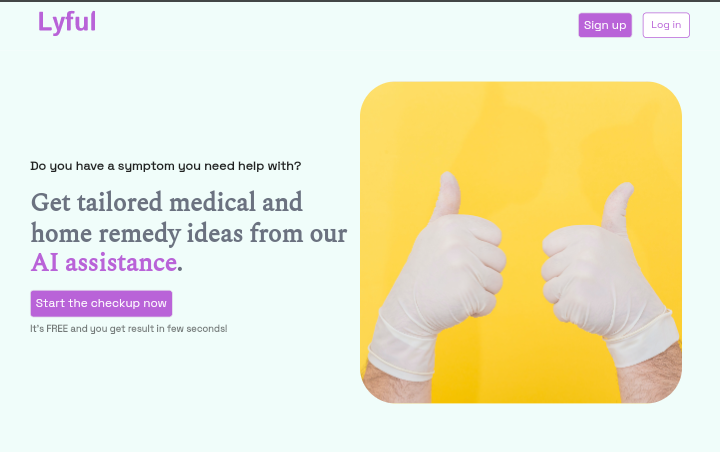
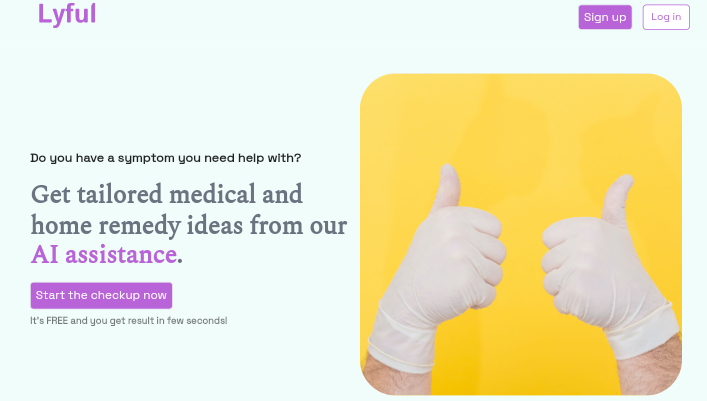
updated portolio and resume

Changed region(s): [[0.0311, 0.1796, 0.9646, 0.9875], [0.0, 0.0, 1.0, 0.0898]]

diff --git a/index.html b/index.html
@@ -56,7 +56,7 @@
 
         <a
           target="_blank"
-          href="https://drive.google.com/file/d/1EtTP-jTGuqnFVihL877JjAzVxL6ZbREH/view?usp=sharing"
+          href="https://drive.google.com/file/d/16C7zmaHx5LuA9tfHQ1fpVGoLlO-ugb07/view?usp=sharing"
           class="btn btn-top"
           >Download CV</a
         >
@@ -80,7 +80,7 @@
         </p>
         <a
           target="_blank"
-          href="https://drive.google.com/file/d/1EtTP-jTGuqnFVihL877JjAzVxL6ZbREH/view?usp=sharing"
+          href="https://drive.google.com/file/d/16C7zmaHx5LuA9tfHQ1fpVGoLlO-ugb07/view?usp=sharing"
           class="mp_text-btn"
           >Download CV</a
         >
@@ -95,6 +95,60 @@
     <section class="portfolio" id="portfolio">
       <h1>💼 MY PORTFOLIO:</h1>
       <div class="port-container">
+        <div class="port-box">
+          <div class="port-img">
+            <img src="portfolio-img/sneakers.png" alt="sneakers" />
+          </div>
+
+          <div class="port-text">
+            <div class="port-title">Sneakers E-commerce</div>
+            <p>ReactJS + Tailwind CSS</p>
+          </div>
+          <div class="port-div">
+            <a
+              href="https://seyi-sneakers.brimble.app/"
+              target="_blank"
+              class="port-link"
+              >View</a
+            >
+          </div>
+        </div>
+
+        <div class="port-box">
+          <div class="port-img">
+            <img src="portfolio-img/quales.png" alt="quales" />
+          </div>
+
+          <div class="port-text">
+            <div class="port-title">Quales Tech</div>
+            <p>Bootstrap</p>
+          </div>
+          <div class="port-div">
+            <a href="https://quales.tech/" target="_blank" class="port-link"
+              >View</a
+            >
+          </div>
+        </div>
+
+        <div class="port-box">
+          <div class="port-img">
+            <img src="portfolio-img/lyful.png" alt="lyful" />
+          </div>
+
+          <div class="port-text">
+            <div class="port-title">Lyful Med</div>
+            <p>NextJS + Tailwind CSS + Firebase</p>
+          </div>
+          <div class="port-div">
+            <a
+              href="https://lyful.netlify.app/"
+              target="_blank"
+              class="port-link"
+              >View</a
+            >
+          </div>
+        </div>
+
         <div class="port-box">
           <div class="port-img">
             <img src="portfolio-img/crappo.jpg" alt="crappo" />
@@ -132,25 +186,6 @@
             >
           </div>
         </div>
-
-        <!-- <div class="port-box">
-          <div class="port-img">
-            <img src="portfolio-img/seyiblog.jpg" alt="blog" />
-          </div>
-
-          <div class="port-text">
-            <div class="port-title">Oluwaseyi's blog</div>
-            <p>ReactJS + TailwindCSS + Firebase API</p>
-          </div>
-          <div class="port-div">
-            <a
-              href="https://seyiblog.netlify.app/"
-              target="_blank"
-              class="port-link"
-              >View</a
-            >
-          </div>
-        </div> -->
 
         <div class="port-box">
           <div class="port-img">

diff --git a/css/custom.css b/css/custom.css
@@ -29,7 +29,7 @@
   width: 100%;
   height: auto;
   padding: 3px;
-  /* border-bottom: 2px solid red; */
+  border-bottom: 1px solid black;
 }
 .port-img img {
   width: 100%;

diff --git a/README.md b/README.md
@@ -4,6 +4,6 @@
 
 👨🏽💻 I am currently open to frontend developer/engineer roles.
 
-📝 This is my [resume.](https://drive.google.com/file/d/1UTaVeF7Vsi2j1dC2Jdv9kVNoZlzO2D3x/view?usp=sharing)
+📝 This is my [resume.](https://drive.google.com/file/d/16C7zmaHx5LuA9tfHQ1fpVGoLlO-ugb07/view?usp=sharing)
 
 📬 You can contact me here **seyifagbemi211@gmail.com**.
